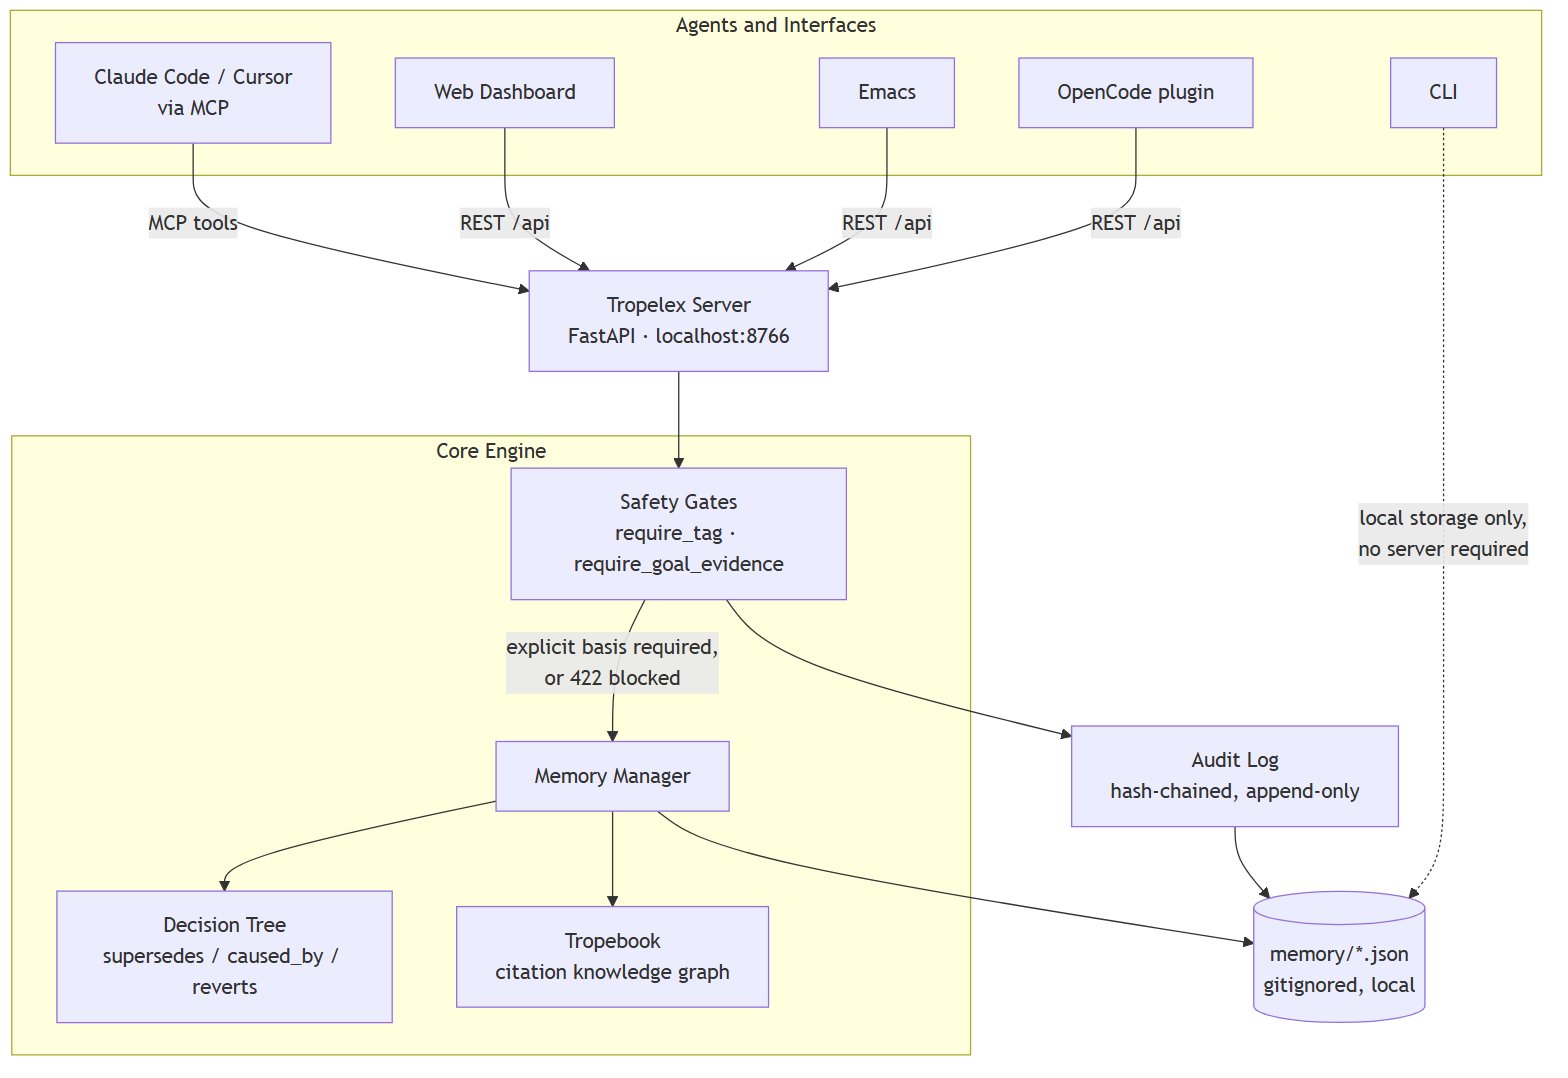
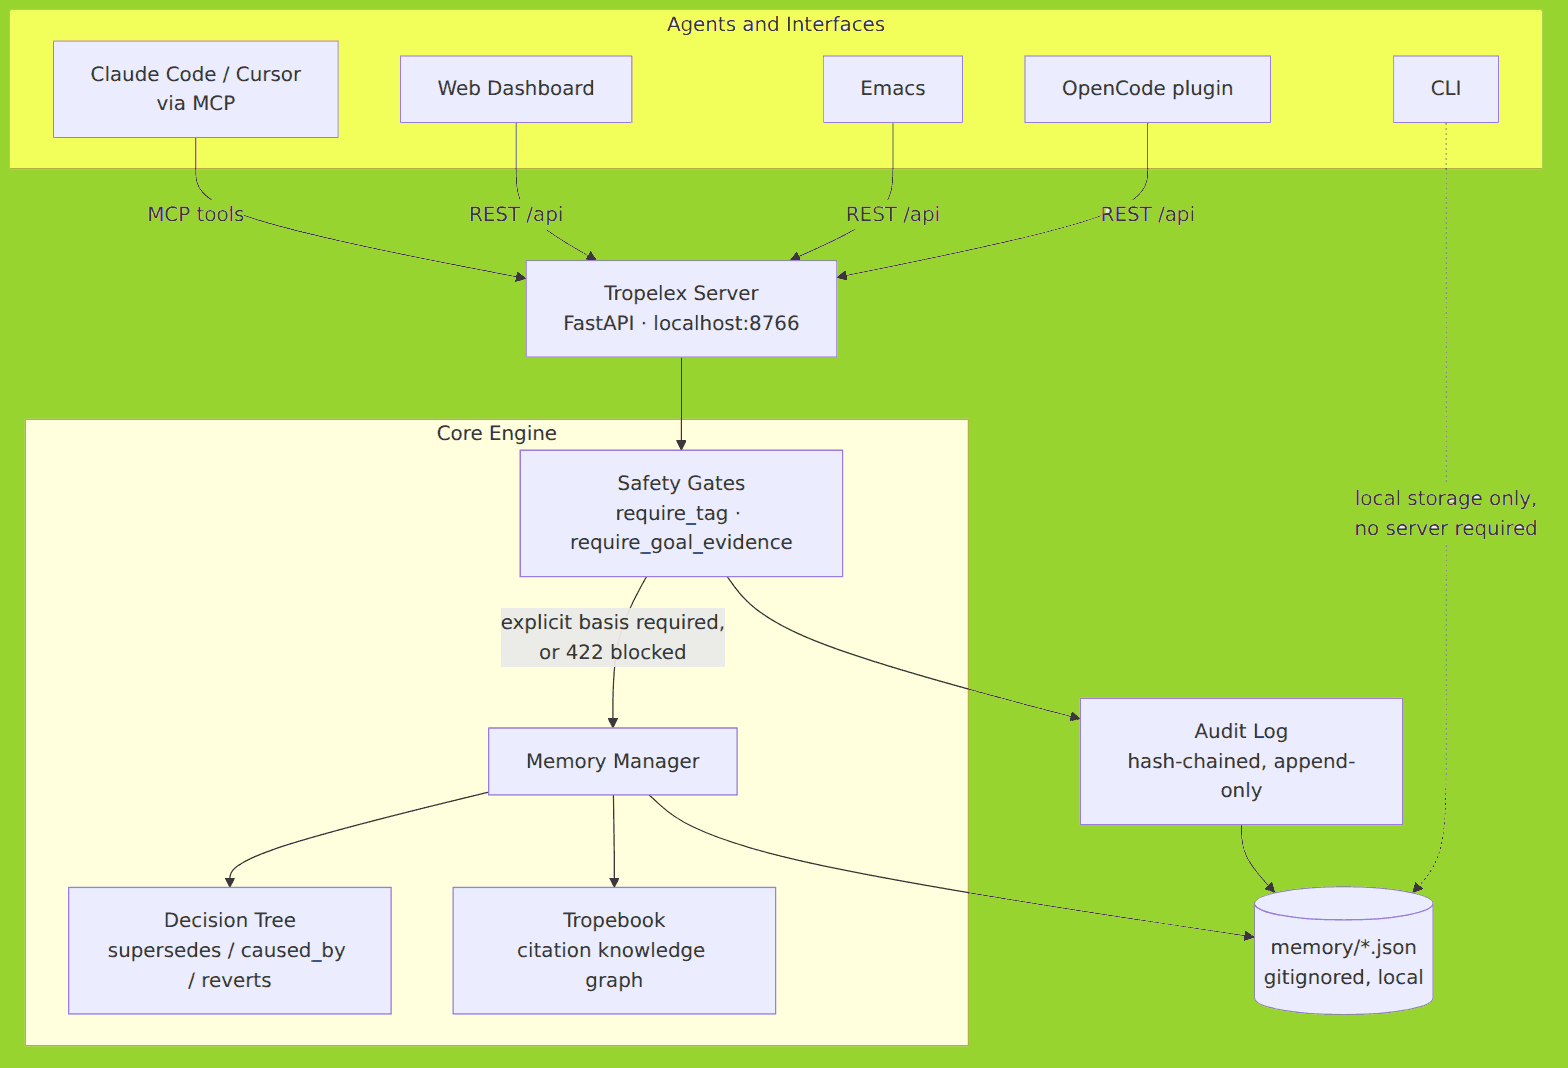
docs: update architecture diagram with user-provided version

diff --git a/README.md b/README.md
@@ -16,7 +16,7 @@
 
 ---
 
-<p align="center"><img src="images/tropelex-hero-static.jpg?v=3" alt="Tropelex — The Rationale Engine for AI"/></p>
+<p align="center"><img src="images/tropelex-hero-static.jpg?v=4" alt="Tropelex — The Rationale Engine for AI"/></p>
 
 > [!NOTE]
 > **AI Memory System with Safety and Alignment Infrastructure**
@@ -25,7 +25,7 @@ Tropelex accumulates knowledge across projects (decisions, patterns, preferences
 
 The same mechanisms that make an agent's memory useful also make its behavior auditable: an immutable decision history an agent must cross-reference before acting, drift detection that catches code silently diverging from stated intent, and multi-agent handoff that carries rationale across agent boundaries instead of losing it. See [`SAFETY.md`](SAFETY.md) for how these properties apply to agent safety and alignment work.
 
-<p align="center"><img src="images/diagrams/architecture.png?v=3" alt="Tropelex architecture: clients (Claude Code/MCP, Web Dashboard, Emacs, OpenCode, CLI) talk to the Tropelex FastAPI server, which routes through Safety Gates into the Memory Manager, Decision Tree, and Tropebook, all persisted to gitignored local JSON with a hash-chained audit log"/></p>
+<p align="center"><img src="images/diagrams/architecture.png?v=4" alt="Tropelex architecture: clients (Claude Code/MCP, Web Dashboard, Emacs, OpenCode, CLI) talk to the Tropelex FastAPI server, which routes through Safety Gates into the Memory Manager, Decision Tree, and Tropebook, all persisted to gitignored local JSON with a hash-chained audit log"/></p>
 
 <!-- Rendered as a static image (source: images/diagrams/architecture.mmd) rather than a
      live mermaid block, the GitHub mobile app doesn't render mermaid and falls back to
@@ -111,7 +111,7 @@ The same mechanisms that make an agent's memory useful also make its behavior au
 
 Tropelex doubles as empirical safety infrastructure for autonomous agents. For the alignment reframing of its features, threat models, and grant-specific technical summaries, see:
 
-<p align="center"><img src="images/diagrams/safety-gate.png?v=3" alt="Safety gate flow: a submitted decision without an explicit safety category is blocked with a suggested category; once written, it gets a content hash, an audit event chained to the prior entry's hash, a Decision Tree update, and ongoing Drift/Ghost contradiction checks"/></p>
+<p align="center"><img src="images/diagrams/safety-gate.png?v=4" alt="Safety gate flow: a submitted decision without an explicit safety category is blocked with a suggested category; once written, it gets a content hash, an audit event chained to the prior entry's hash, a Decision Tree update, and ongoing Drift/Ghost contradiction checks"/></p>
 
 <!-- Rendered as a static image (source: images/diagrams/safety-gate.mmd). See the note
      on the architecture diagram above for why, and the regeneration command. -->
@@ -197,7 +197,7 @@ Visit **http://localhost:8766/hijacker**. Paste any verbose prompt and get it AI
 
 What the loop above actually looks like once an agent is wired up: each session both draws on and adds to the same memory, so context compounds instead of resetting every time:
 
-<p align="center"><img src="images/diagrams/workflow.png?v=3" alt="Session workflow loop: a session starts by pulling context via get_context_bundle, work happens with capture_decision gated on an explicit safety category and checked by Ghost/Contradiction checks, the session ends with end_session recording a summary and diff, and the updated patterns/skills/history feed the next session's context bundle"/></p>
+<p align="center"><img src="images/diagrams/workflow.png?v=4" alt="Session workflow loop: a session starts by pulling context via get_context_bundle, work happens with capture_decision gated on an explicit safety category and checked by Ghost/Contradiction checks, the session ends with end_session recording a summary and diff, and the updated patterns/skills/history feed the next session's context bundle"/></p>
 
 <!-- Rendered as a static image (source: images/diagrams/workflow.mmd). See the note
      on the architecture diagram above for why, and the regeneration command. -->
